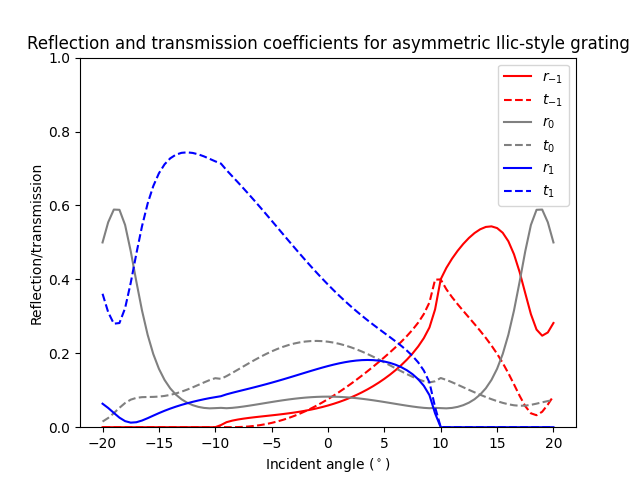
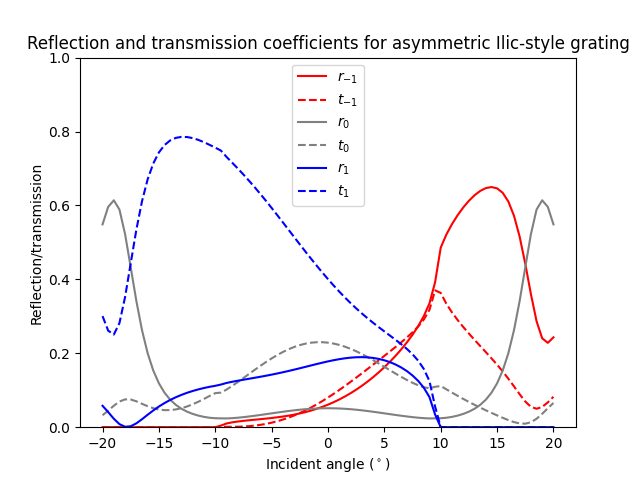
Added comment regarding value of Nx

diff --git a/grcwa/optimisation/wk10attempt/core.py b/grcwa/optimisation/wk10attempt/core.py
@@ -1,3 +1,10 @@
+'''
+Comments:
+    * GRCWA does not give accurate results for small Nx (i.e. Nx < 181). When using this code, I recommend a large Nx
+    value. Computation time does not seem to scale with Nx, so something like Nx=1801 will generally be fine.
+
+'''
+
 import grcwa
 grcwa.set_backend('autograd')  # important!!
 
@@ -51,6 +58,10 @@ def linear_boundary_geometry(Nx,d,x1,x2,w1,w2):
     if x2/(d/(Nx-1)) - int(x2/(d/(Nx-1))) > 0:
         raise Exception("x2 must be an integer multiple of the slice width d/(Nx-1).")
         # ... otherwise I would need to make the code needlessly complicated.
+    if w1/(2*d/(Nx-1)) - int(w1/(2*d/(Nx-1))) > 0:
+        print("Warning: w1 is not twice an integer multiple of the slice width d/(Nx-1). There will be a boundary permittivity here.")
+    if w2/(2*d/(Nx-1)) - int(w2/(2*d/(Nx-1))) > 0:
+        print("Warning: w2 is not twice an integer multiple of the slice width d/(Nx-1). There will be a boundary permittivity here.")
     
 
     ### Generating basic unit cell
@@ -126,6 +137,12 @@ def linear_permittivity_geometry(Nx,d,x1,x2,w1,w2,vars):
         eps2: the permittivity at the boundary of element 2
     '''
 
+    if x1/(d/(Nx-1)) - int(x1/(d/(Nx-1))) > 0:
+        raise Exception("x1 must be an integer multiple of the slice width d/(Nx-1).")
+        # ... otherwise I would need to make the code needlessly complicated.
+    if x2/(d/(Nx-1)) - int(x2/(d/(Nx-1))) > 0:
+        raise Exception("x2 must be an integer multiple of the slice width d/(Nx-1).")
+        # ... otherwise I would need to make the code needlessly complicated.
     if x1 > x2:
         raise Exception("x1 should be less than x2, otherwise eps1 will correspond to element 2.")
 

diff --git a/grcwa/optimisation/wk10attempt/optimising_force.py b/grcwa/optimisation/wk10attempt/optimising_force.py
@@ -4,10 +4,10 @@ from autograd import grad
 
 ## Discretisation values
 nG = 30
-Nx = 181
+Nx = 1801
 
 ## Sail speed
-beta = 0.02
+beta = 0.2
 
 ## Ilic cell parameters
 d = 1.8
@@ -117,13 +117,15 @@ while optimising:
 
 '''
 Objectives:
-    1) Ensure that cell_geometry is dynamically changing                                    DONE
+    1) (11/10/23) Ensure that cell_geometry is dynamically changing                                    DONE on 11/10/23
 
-    2) Fix eps going out of bounds with beta = 0.02                                         DONE
+    2) (11/10/23) Fix eps going out of bounds with beta = 0.02                                         DONE on 11/10/23
 
-    3) Fix overstepping display. The vars[0] and vars[1] variables should be changing       DONE
+    3) (11/10/23) Fix overstepping display. The vars[0] and vars[1] variables should be changing       DONE on 11/10/23
 
-    4) Fix gradient direction for beta = 0.02 vs beta = 0.2. I keep having to change 
+    4) (11/10/23) Fix gradient direction for beta = 0.02 vs beta = 0.2. I keep having to change 
     vars = vars + ... into vars = vars - ... to approach the minimum. It should be
     vars = vars - ..., but beta = 0.02 is completely reversed (incorrect).
+
+    5) Implement a beam search
 '''

diff --git a/grcwa/optimisation/wk10attempt/ilic_replication.py b/grcwa/optimisation/wk10attempt/ilic_replication.py
@@ -3,7 +3,7 @@ import numpy as np
 import matplotlib.pyplot as plt
 
 ### Ilic Replication
-Nx = 181 # don't keep this too low: the boundary epsilons are not very representative of a real cell. Nx=181 is good
+Nx = 1801 # don't keep this too low: the boundary epsilons are not very representative of a real cell. Nx=181 is good
 Ny = 1
 nG = 30
 beta = 0.02
@@ -41,6 +41,12 @@ Tis = np.empty((len(thetas), len(orders)))
 
 
 cell_geometry, eps1, eps2 = core.linear_boundary_geometry(Nx,d,x1,x2,w1,w2)
+# Visualising the unit cell
+plt.imshow(cell_geometry, interpolation='nearest', aspect='auto')
+plt.xlabel("y")
+plt.ylabel("x")
+plt.show()
+
 for j in range(0,len(thetas)):
     theta = thetas[j]
     Rs,Ts = core.grcwa_reflectance_transmittance_orders(nG,orders,Nx,d,theta*180/np.pi,freq,x1,x2,w1,w2)

diff --git a/grcwa/ilic_replication/ilic_GRCWA_rtmodes.py b/grcwa/ilic_replication/ilic_GRCWA_rtmodes.py
@@ -7,7 +7,7 @@ Being numerical in nature, I need to define the truncation order of the fourier 
 # Truncation order
 nG = 30
 # Resolution 
-Nx = 40
+Nx = 18001
 Ny = 1
 
 '''

diff --git a/grcwa/optimisation/wk10attempt/running_core.py b/grcwa/optimisation/wk10attempt/running_core.py
@@ -3,7 +3,7 @@ import numpy as np
 # Truncation order
 nG = 30
 # Resolution 
-Nx = 1001
+Nx = 1801
 
 # Permittivities
 E_vacuum = 1.
